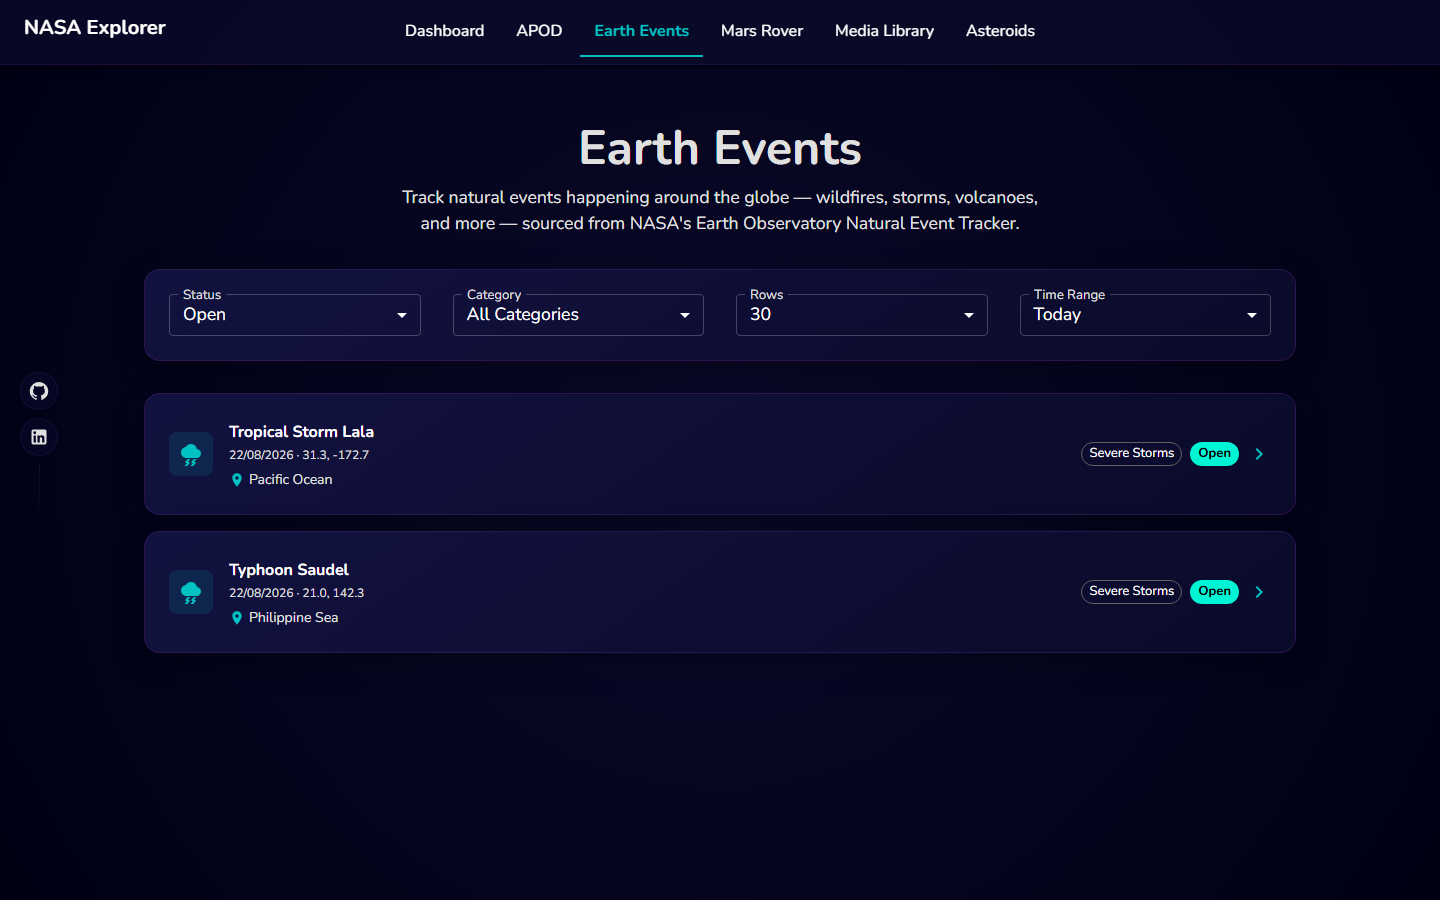
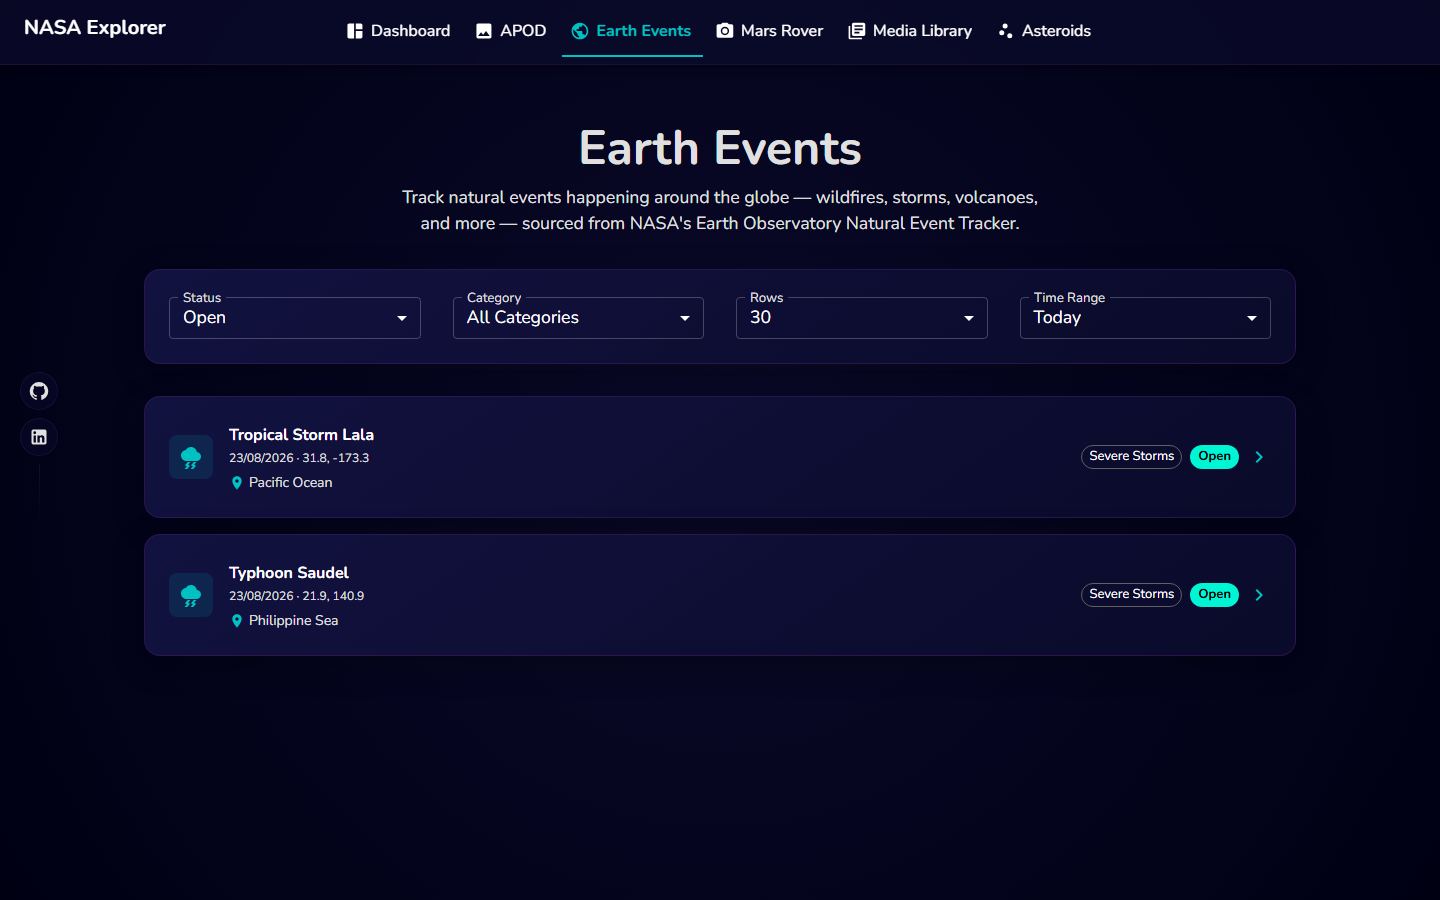
fix: readme update

diff --git a/README.md b/README.md
@@ -8,7 +8,7 @@ Um dashboard para explorar os dados públicos da NASA — fotos astronômicas, r
 
 ![Tela de asteroides próximos do NASA Explorer](docs/screenshots/asteroids.png)
 
-<sub>Asteroides em aproximação, com um diagrama por card posicionando a Terra, a órbita da Lua e o objeto — em escala logarítmica, já que as distâncias vão de 9 a mais de 120 distâncias lunares.</sub>
+<sub>Asteroides em aproximação, com um diagrama por card posicionando a Terra, a órbita da Lua e o objeto — em escala logarítmica, já que as distâncias entre um objeto e outro variam por ordens de grandeza.</sub>
 
 ---
 
@@ -34,7 +34,7 @@ O NASA Explorer exibe dados ao vivo de várias APIs abertas da NASA por trás de
 
 O projeto também serve como demonstração de prática full-stack: arquitetura baseada em features, uma camada de dados tipada construída sobre React Query, proteção da chave de API e cache de respostas no servidor via Route Handlers do Next.js, e o hábito de verificar o comportamento de APIs de terceiros contra os serviços reais antes de construir em cima delas.
 
-Todas as telas são renderizadas no servidor com os dados já embutidos e revalidação incremental, então chegam ao navegador prontas — sem spinner e sem nenhuma requisição após a hidratação.
+Todas as telas são renderizadas no servidor com os dados já embutidos e revalidação incremental, então chegam ao navegador prontas — sem spinner e sem refazer no navegador nenhuma busca que o servidor já tenha feito.
 
 ---
 
@@ -43,7 +43,7 @@ Todas as telas são renderizadas no servidor com os dados já embutidos e revali
 ### Dashboard
 - Estatísticas ao vivo de eventos na Terra, asteroides próximos e imagens de Marte — cada uma resolve de forma independente, então uma fonte com falha nunca bloqueia as demais
 - Foto Astronômica do Dia em destaque, imagem ou vídeo
-- Atividade recente de eventos na Terra, com cada linha levando à sua própria página de detalhes
+- Atividade recente de eventos na Terra, cada linha identificando a categoria do evento por ícone e rótulo e levando à sua própria página de detalhes
 - Miniaturas das APODs recentes
 
 ### Foto Astronômica do Dia (APOD)
@@ -54,8 +54,9 @@ Todas as telas são renderizadas no servidor com os dados já embutidos e revali
 
 ### Eventos na Terra
 - Eventos naturais ao vivo da NASA EONET — incêndios florestais, tempestades, vulcões, enchentes e mais
-- Filtros de aplicação instantânea por status, categoria, número de linhas e intervalo de tempo
+- Filtros de aplicação instantânea por status, categoria, número de linhas e intervalo de tempo, com barra de progresso enquanto o resultado é buscado
 - Categorias sem eventos correspondentes se ocultam automaticamente
+- Quando o EONET aplica limite de taxa, a tela espera e tenta de novo sozinha antes de mostrar erro
 - Nomes de lugares via geocodificação reversa quando a NASA não fornece descrição
 - Páginas de detalhe por evento com histórico de posição, fontes, compartilhamento por link e rastreamento de tempestades ao vivo
 
@@ -180,6 +181,7 @@ src/
 │   ├── endpoints.ts        URLs base externas, centralizadas
 │   ├── prefetch.ts         monta o estado desidratado das páginas
 │   ├── queryKeys.ts        fábrica de chaves do React Query
+│   ├── staleTimes.ts       janelas de cache do cliente, alinhadas ao ISR
 │   └── serverCache.ts      cache em memória usado no servidor
 ├── components/             UI compartilhada
 ├── utils/                  helpers puros compartilhados
@@ -188,7 +190,7 @@ src/
 
 Cada módulo em `services/api/<nome>` expõe funções de request tipadas e hooks do React Query, então toda feature busca dados da mesma forma, independentemente da origem.
 
-Onde existe `server.ts`, a mesma função serve o route handler e o Server Component — a página nunca chama a própria API por HTTP, e ambos compartilham o cache. O resultado é que as telas chegam ao navegador já renderizadas, sem nenhuma requisição depois da hidratação.
+Onde existe `server.ts`, a mesma função serve o route handler e o Server Component — a página nunca chama a própria API por HTTP, e ambos compartilham o cache. O resultado é que as telas chegam ao navegador já renderizadas, e o cliente não repete nenhuma dessas buscas depois da hidratação.
 
 ---
 
@@ -208,13 +210,19 @@ Alguns problemas que vale destacar, porque moldaram a implementação:
 
 **Cache em memória não sobrevive a serverless.** O cache do servidor vivia só em memória, o que funciona num processo longo mas não em funções que sobem e descem a cada invocação — e nem em desenvolvimento, onde cada reinício zerava tudo. Todas as chamadas externas passaram a usar o data cache do Next, que persiste em disco. Reiniciando o servidor, a rota de informações do Mars Rover saiu de 8,5s para 0,033s.
 
-**SSR não deixa o dado mais rápido, muda onde se espera.** Com prefetch no servidor as telas chegam prontas, mas se a fonte estiver fria o usuário encara uma tela parada em vez de um spinner. Por isso cada rota tem um `loading.tsx`: o esqueleto é transmitido na hora e o conteúdo entra em seguida. Pelo mesmo motivo, a estatística de eventos do dashboard ficou deliberadamente fora do prefetch — contar todos os eventos abertos do EONET leva cerca de 75s, tempo que não pode entrar na renderização de uma página.
+**SSR não deixa o dado mais rápido, muda onde se espera.** Com prefetch no servidor as telas chegam prontas, mas se a fonte estiver fria o usuário encara uma tela parada em vez de um spinner. Por isso cada rota tem um `loading.tsx`: o esqueleto é transmitido na hora e o conteúdo entra em seguida.
+
+**Contar eventos abertos custa 4,7 MB.** A estatística de eventos do dashboard precisava de uma contagem que o EONET só entrega devolvendo os eventos inteiros: sem recorte de tempo são 7.082 eventos e 4,7 MB de resposta, o que chegou a estourar o limite de tempo de uma função serverless. Limitar a janela a 30 dias reduz para 135 eventos e 184 KB — 26× menos dados — e tornou a estatística barata o bastante para entrar no prefetch junto com o resto do dashboard. O rótulo na tela diz "Earth Events (30d)", porque estreitar a janela mudou o significado do número.
+
+**`staleTime` menor que o ISR anula o SSR.** Cada rota semeia suas queries no servidor e é guardada por ISR de 15 a 60 minutos, mas o `staleTime` do React Query era de 5 minutos. Passado esse tempo, o HTML em cache chegava com dados que o cliente já considerava vencidos, e o navegador rebuscava exatamente o que o servidor tinha acabado de embutir — em 92% da janela, nas rotas de uma hora. Medindo com o HTML a 339s de idade, uma visita fria disparava 3 requisições em Eventos na Terra, 2 no Mars Rover e 1 em cada uma das demais. Alinhar cada `staleTime` ao `revalidate` da sua rota zerou todas: buscar antes de o servidor conseguir gerar HTML novo não traz dado mais recente.
+
+**Uma sondagem barata pode custar caro em volume.** Esconder as categorias sem eventos exige perguntar ao EONET, categoria por categoria, se há algo — 13 requisições. Feitas do navegador, quatro ou cinco trocas de filtro consumiam as 60 requisições por minuto que o EONET permite por IP, e a tela quebrava com 429. Duas correções: a sondagem passou para um route handler, onde o data cache do Next a compartilha entre todos os visitantes, e o 429 deixou de ser tratado como erro definitivo. A política de retry descartava todo 4xx, o que é correto em geral mas errado justamente para o 429, que significa "espere e tente de novo". O navegador saiu de 14 requisições por troca de filtro para 2.
 
 ---
 
 ## Interface
 
-- Navegação no cabeçalho, centralizada, com a página ativa destacada e menu compacto em telas menores
+- Navegação no cabeçalho, centralizada, cada item com seu ícone, a página ativa destacada e menu compacto em telas menores
 - Tela de carregamento própria: um planeta girando em CSS e mensagens que se alternam enquanto o servidor busca os dados
 - Atalhos fixos para GitHub e LinkedIn na lateral, ocultos em telas pequenas para não cobrir o conteúdo
 - Tema escuro único, com o design system definido no tema do MUI
@@ -253,8 +261,9 @@ Acervo histórico da NASA, navegável por missão ou busca livre.
 ## Limitações Conhecidas
 
 - O grid "NASA API Collections" do dashboard é uma lista de navegação estática, não dados buscados
-- A estatística de eventos na Terra cobre os últimos 30 dias, não todo o histórico em aberto — contar tudo leva mais de dois minutos no EONET, acima do limite de qualquer função serverless. O rótulo na tela deixa a janela explícita
-- Essa estatística é também a única chamada feita pelo navegador; todo o resto chega renderizado do servidor
+- A estatística de eventos na Terra cobre os últimos 30 dias, não todo o histórico em aberto — o rótulo na tela deixa a janela explícita
+- A geocodificação reversa dos eventos é a única busca que sai do navegador depois da hidratação, porque depende de coordenadas que só interessam aos cards visíveis; o resultado é cacheado por coordenada e não se repete
+- EONET, Image & Video Library e a geocodificação são chamadas direto do navegador. Cada visitante paga a própria requisição, sem cache compartilhado entre usuários como acontece nas rotas que passam pelo servidor
 - Todo o conteúdo vindo da NASA é em inglês, então a interface segue o mesmo idioma por consistência
 - Não há suíte de testes automatizados
 
